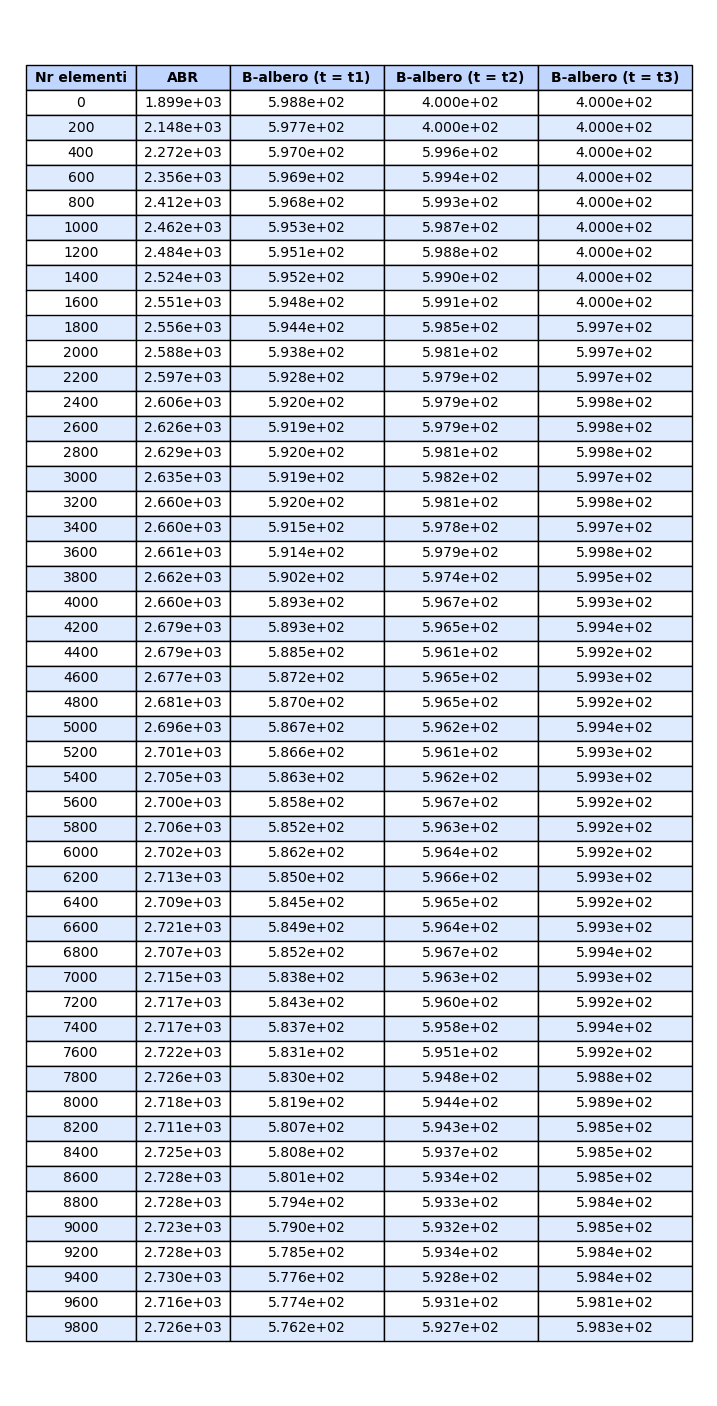
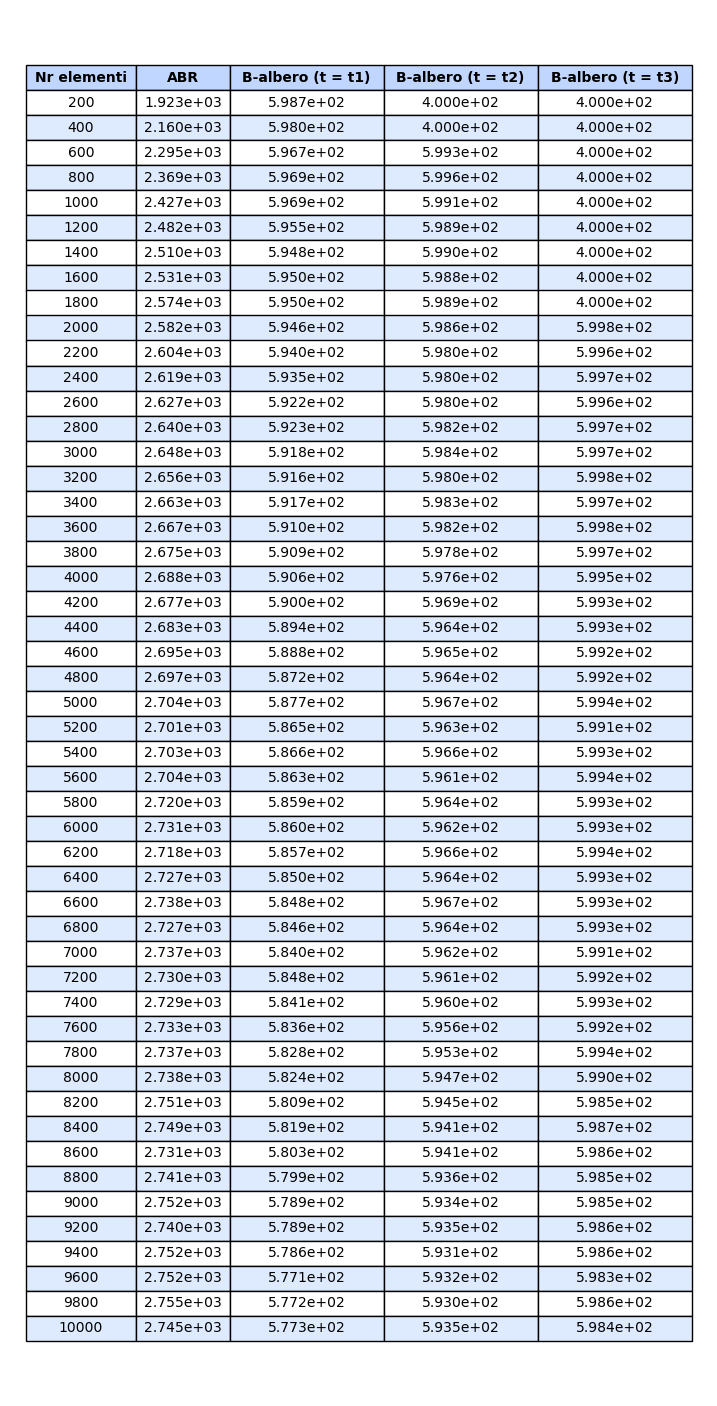
update tables

diff --git a/labAlgoritmi_es1/labAlgoritmi_BTree/main.py b/labAlgoritmi_es1/labAlgoritmi_BTree/main.py
@@ -322,7 +322,7 @@ def main():
 
     # table: insertion execution time
     columns_time_insert = [
-        [i for i in range(0, len(array_test), block_size)],
+        [i for i in range(block_size, len(array_test)+block_size, block_size)],
         ["{:.3e}".format(res) for res in result_time_insert_abr],
         ["{:.3e}".format(res) for res in result_time_insert_btree1],
         ["{:.3e}".format(res) for res in result_time_insert_btree2],
@@ -335,7 +335,7 @@ def main():
 
     # table: insertion nodes
     columns_node_insert = [
-        [i for i in range(0, len(array_test), block_size)],
+        [i for i in range(block_size, len(array_test)+block_size, block_size)],
         ["{:.3e}".format(res) for res in result_node_insert_abr],
         ["{:.3e}".format(res) for res in result_node_insert_btree1],
         ["{:.3e}".format(res) for res in result_node_insert_btree2],
@@ -347,7 +347,7 @@ def main():
 
     # table: search execution time
     columns_time_search = [
-        [i for i in range(0, len(array_test), block_size)],
+        [i for i in range(block_size, len(array_test)+block_size, block_size)],
         ["{:.3e}".format(res) for res in result_time_search_abr],
         ["{:.3e}".format(res) for res in result_time_search_btree1],
         ["{:.3e}".format(res) for res in result_time_search_btree2],
@@ -359,7 +359,7 @@ def main():
 
     # table: search nodes
     columns_node_search = [
-        [i for i in range(0, len(array_test), block_size)],
+        [i for i in range(block_size, len(array_test)+block_size, block_size)],
         ["{:.3e}".format(res) for res in result_node_search_abr],
         ["{:.3e}".format(res) for res in result_node_search_btree1],
         ["{:.3e}".format(res) for res in result_node_search_btree2],
